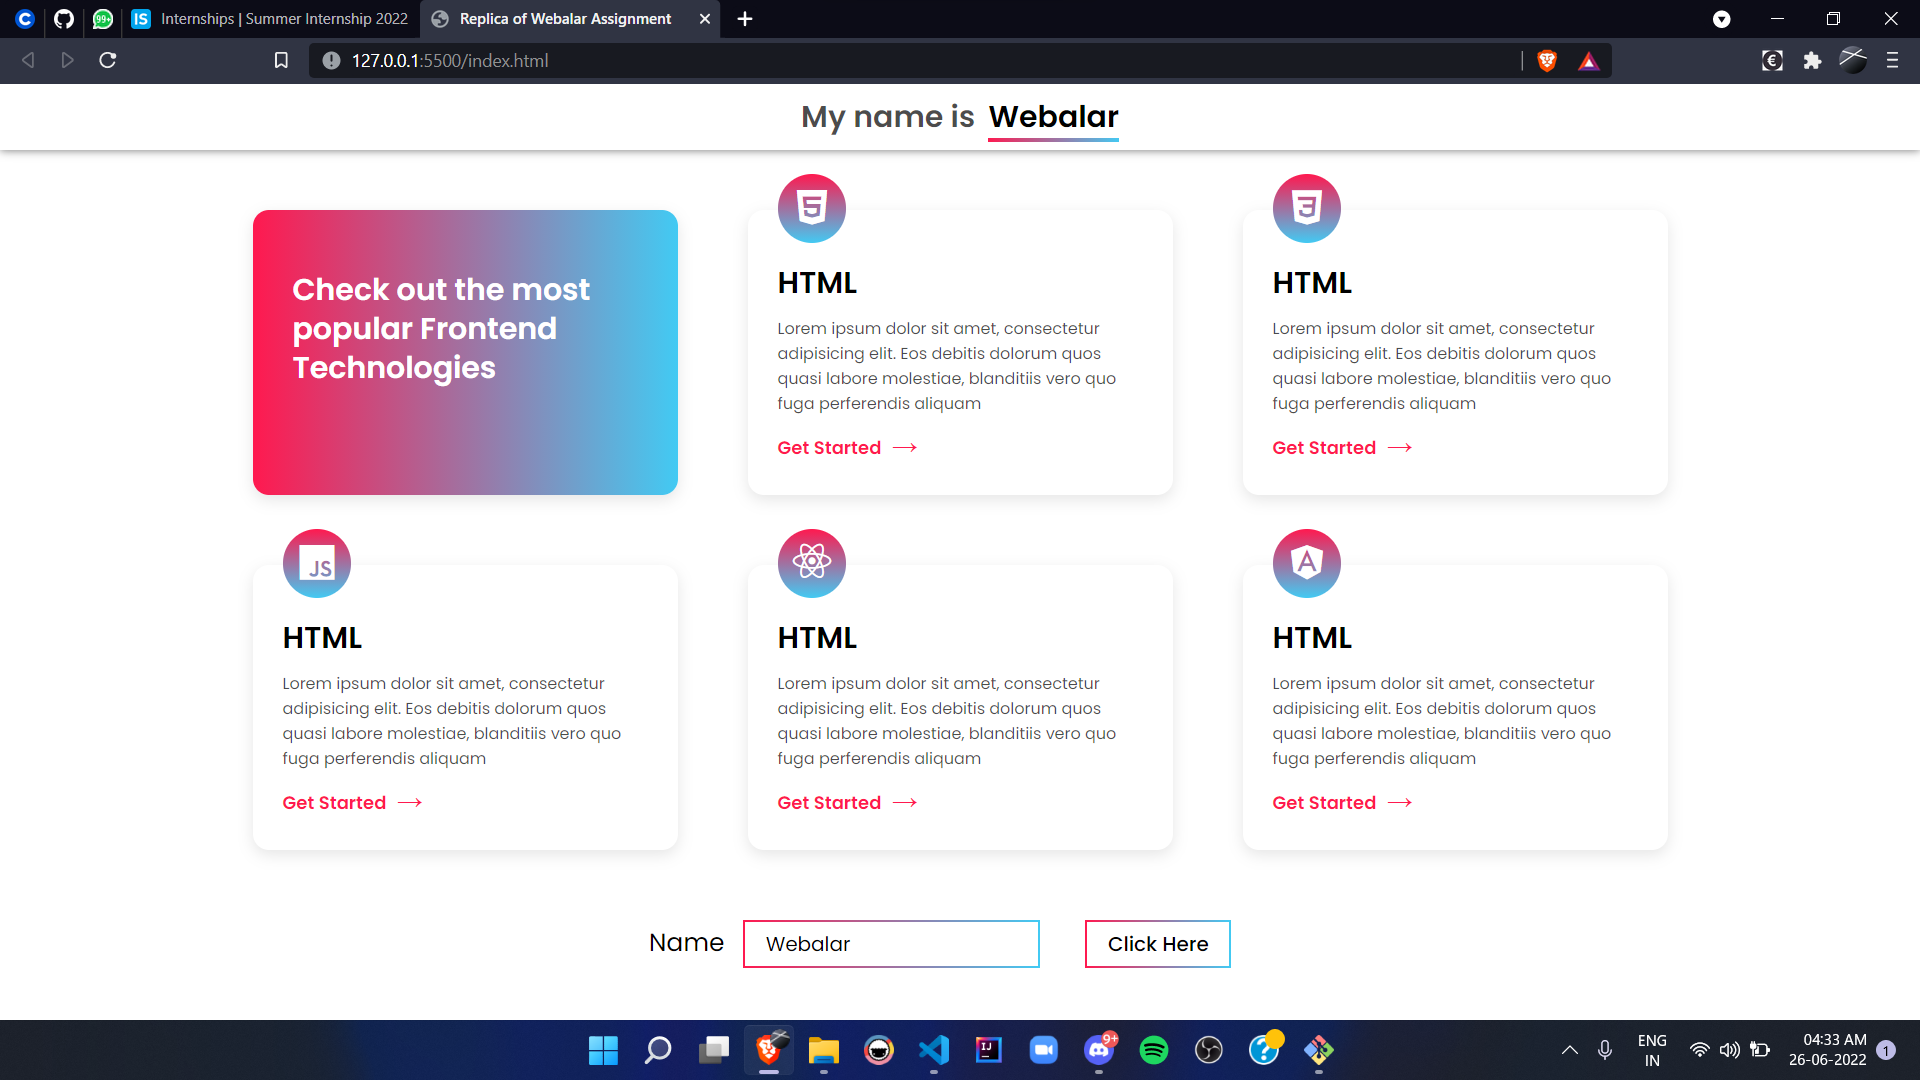
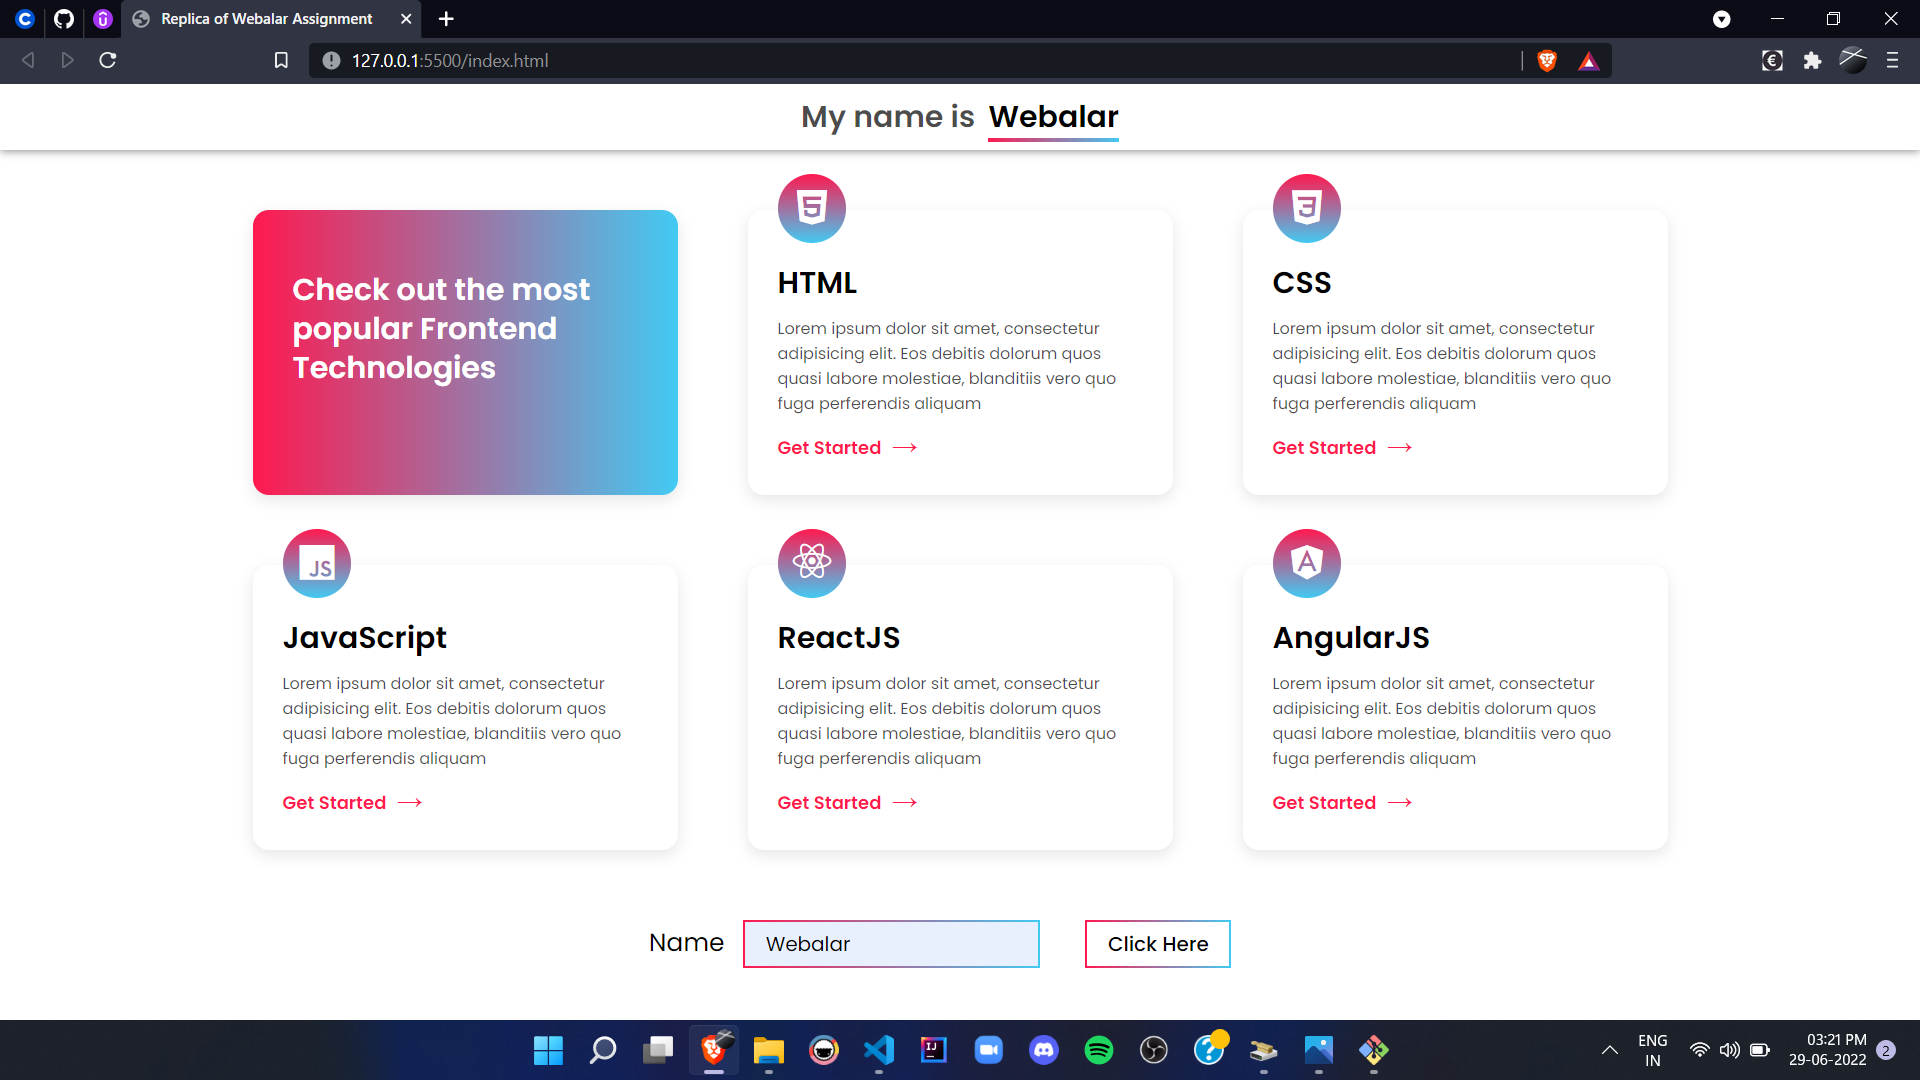
Final Updation

diff --git a/index.html b/index.html
@@ -54,7 +54,7 @@
           <div class="icon__box">
             <i class="bx bxl-css3"></i>
           </div>
-          <h2>HTML</h2>
+          <h2>CSS</h2>
           <p>
             Lorem ipsum dolor sit amet, consectetur adipisicing elit. Eos
             debitis dolorum quos quasi labore molestiae, blanditiis vero quo
@@ -72,7 +72,7 @@
           <div class="icon__box">
             <i class="bx bxl-javascript"></i>
           </div>
-          <h2>HTML</h2>
+          <h2>JavaScript</h2>
           <p>
             Lorem ipsum dolor sit amet, consectetur adipisicing elit. Eos
             debitis dolorum quos quasi labore molestiae, blanditiis vero quo
@@ -90,7 +90,7 @@
           <div class="icon__box">
             <i class="bx bxl-react"></i>
           </div>
-          <h2>HTML</h2>
+          <h2>ReactJS</h2>
           <p>
             Lorem ipsum dolor sit amet, consectetur adipisicing elit. Eos
             debitis dolorum quos quasi labore molestiae, blanditiis vero quo
@@ -108,7 +108,7 @@
           <div class="icon__box">
             <i class="bx bxl-angular"></i>
           </div>
-          <h2>HTML</h2>
+          <h2>AngularJS</h2>
           <p>
             Lorem ipsum dolor sit amet, consectetur adipisicing elit. Eos
             debitis dolorum quos quasi labore molestiae, blanditiis vero quo
